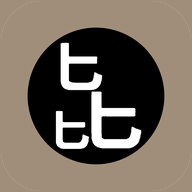
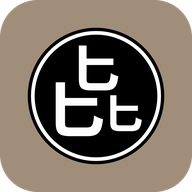
網頁版 2.2：換用客戶 0920 新版識別標誌（含 PWA 圖示）

diff --git a/index.html b/index.html
@@ -79,7 +79,7 @@ footer{ font-size:12px; color:var(--onground); text-align:center; margin-top:26p
 
 <header>
   <div class="brand"><img id="brandMark" alt=""><h1>比例字級閱讀</h1></div>
-  <div class="sub">網頁版 2.1（2026-09-21）｜發明專利 I847748</div>
+  <div class="sub">網頁版 2.2（2026-09-21）｜發明專利 I847748</div>
 </header>
 
 <div class="panel">
@@ -189,7 +189,7 @@ var FONTS = {
   hei:  '"Microsoft JhengHei","PingFang TC","Noto Sans CJK TC",sans-serif'
 };
 var DEMO_SENT = "自其不變者而觀之";
[2 lines of base64/hex data omitted]
 var ENDMARK = '　<img class="endmark" src="' + MARK_SRC + '">';
 var SAMPLE1 = "壬戌之秋，七月既望，蘇子與客泛舟遊於赤壁之下。清風徐來，水波不興，舉酒屬客，誦明月之詩，歌窈窕之章。少焉，月出於東山之上，徘徊於斗牛之間，白露橫江，水光接天；縱一葦之所如，凌萬頃之茫然。浩浩乎如馮虛御風，而不知其所止；飄飄乎如遺世獨立，羽化而登仙。\n於是飲酒樂甚，扣舷而歌之。歌曰：「桂棹兮蘭槳，擊空明兮泝流光。渺渺兮予懷，望美人兮天一方。」客有吹洞簫者，倚歌而和之，其聲嗚嗚然，如怨如慕，如泣如訴，餘音嫋嫋，不絕如縷。舞幽壑之潛蛟，泣孤舟之嫠婦。\n蘇子愀然，正襟危坐，而問客曰：「何為其然也？」\n客曰：「『月明星稀，烏鵲南飛』，此非曹孟德之詩乎？西望夏口，東望武昌，山川相繆，鬱乎蒼蒼，此非孟德之困於周郎者乎？方其破荊州，下江陵，順流而東也，舳艫千里，旌旗蔽空，釃酒臨江，橫槊賦詩，固一世之雄也，而今安在哉？況吾與子，漁樵於江渚之上，侶魚蝦而友麋鹿；駕一葉之扁舟，擧匏樽以相屬。寄蜉蝣於天地，渺滄海之一粟，哀吾生之須臾，羨長江之無窮。挾飛仙以遨遊，抱眀月而長終。知不可乎驟得，託遺響於悲風。\n蘇子曰：「客亦知夫水與月乎？逝者如斯，而未嘗往也；盈虛者如彼，而卒莫消長也，蓋將自其變者而觀之，則天地曾不能以一瞬；自其不變者而觀之，則物與我皆無盡也，而又何羨乎？且夫天地之間，物各有主，苟非吾之所有，雖一毫而莫取。惟江上之清風，與山間之明月，耳得之而為聲，目遇之而成色，取之無禁，用之不竭，是造物者之無盡藏也，而吾與子之所共適。」\n客喜而笑，洗盞更酌。肴核既盡，杯盤狼籍，相與枕藉乎舟中，不知東方之既白。";
 var SAMPLE2 = "臺灣即將進入秋季，早晚溫差逐漸變大。醫師提醒，銀髮族外出運動時應注意保暖，並補充足夠水分。營養師也建議，平日飲食可多攝取蔬菜、水果與優質蛋白質，維持均衡營養，讓身體保持最佳狀態。\n這段文字正是以比例字級排版。比例字級依筆畫多寡調整每個字的字面：筆畫少的字縮小，筆畫多的字放大，字距與行距維持不變。筆畫密的字不再擠成一團，筆畫疏的字也不顯得空洞，整段讀起來更清楚，眼睛也比較不容易疲勞。";
